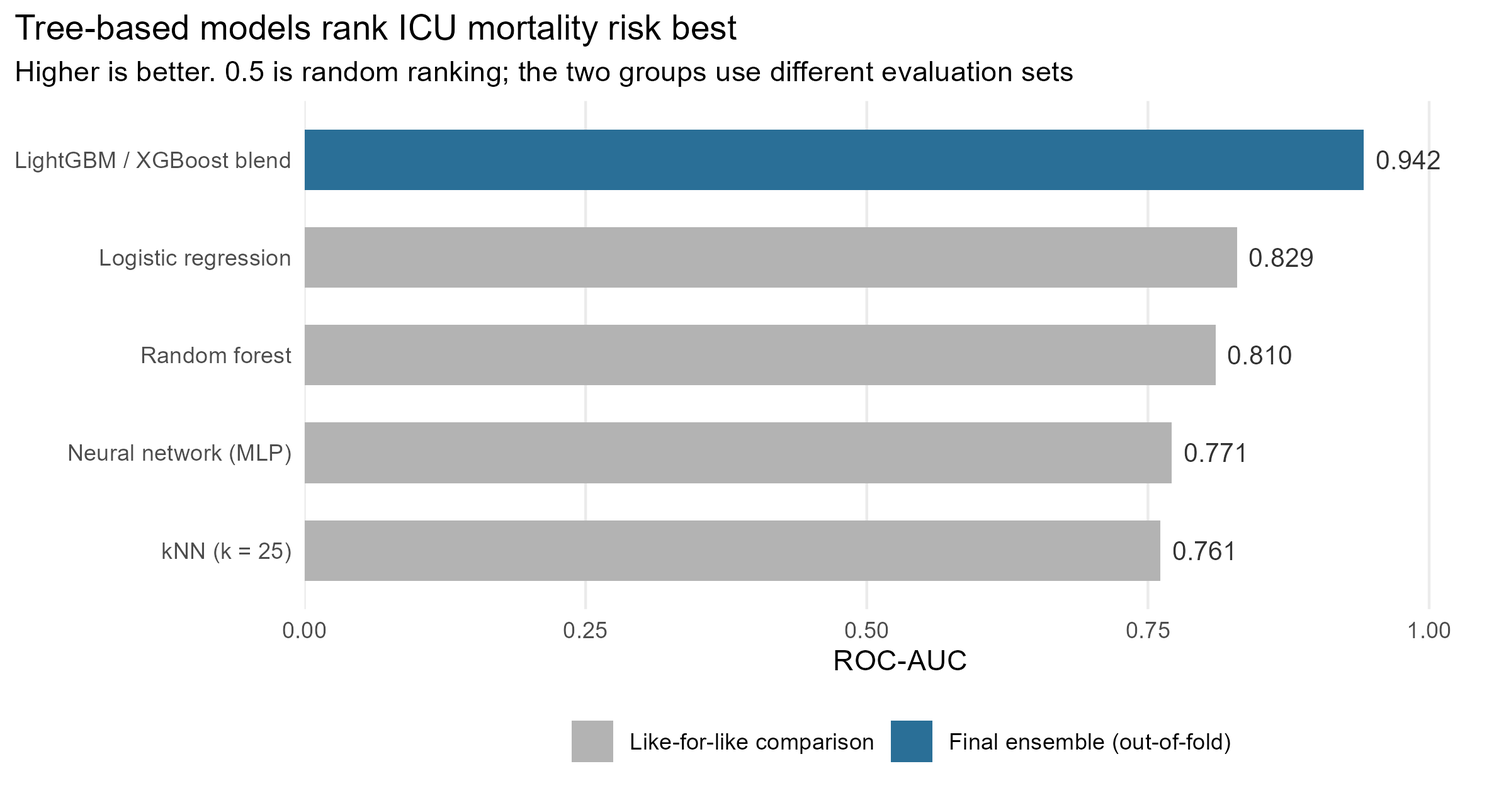
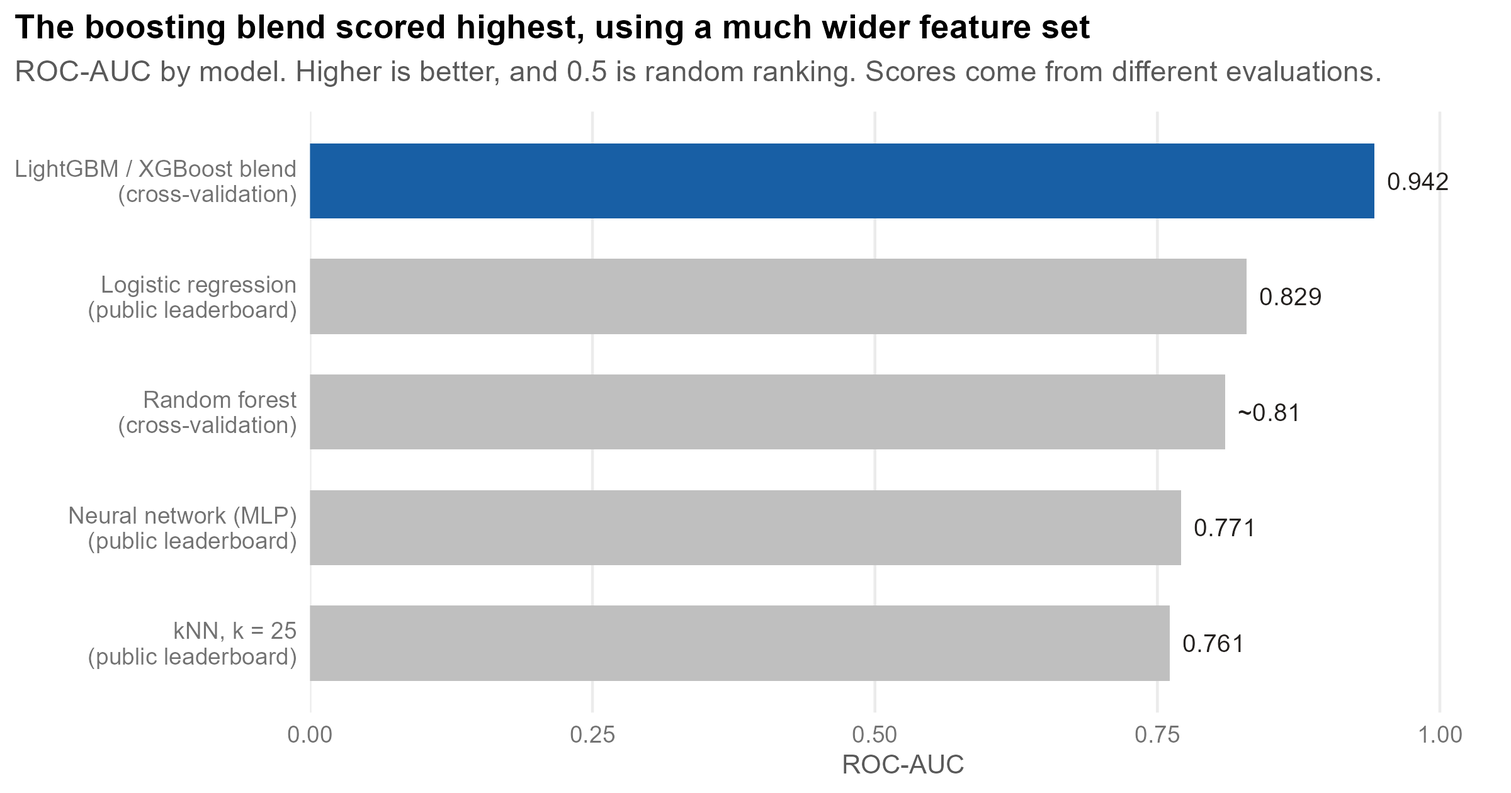
Built site for gh-pages

diff --git a/projects/icu-mortality-prediction.html b/projects/icu-mortality-prediction.html
@@ -7,7 +7,7 @@
 <meta name="viewport" content="width=device-width, initial-scale=1.0, user-scalable=yes">
 
 <meta name="dcterms.date" content="2026-05-24">
-<meta name="description" content="Five model families benchmarked against a gradient boosting ensemble on MIMIC-III ICU admissions, scored on a Kaggle leaderboard.">
+<meta name="description" content="Five model families benchmarked against a gradient boosting ensemble on MIMIC-III ICU admissions, built for a Kaggle competition.">
 
 <title>ICU Mortality Probability Prediction – Tristan Labagala</title>
 <style>
@@ -117,14 +117,14 @@ pre > code.sourceCode > span > a:first-child::before { text-decoration: underlin
 
 
 <meta property="og:title" content="ICU Mortality Probability Prediction – Tristan Labagala">
-<meta property="og:description" content="Five model families benchmarked against a gradient boosting ensemble on MIMIC-III ICU admissions, scored on a Kaggle leaderboard.">
+<meta property="og:description" content="Five model families benchmarked against a gradient boosting ensemble on MIMIC-III ICU admissions, built for a Kaggle competition.">
 <meta property="og:image" content="https://tlabagala.github.io/assets/figures/icu-model-comparison.png">
 <meta property="og:site_name" content="Tristan Labagala">
 <meta property="og:image:height" content="1260">
 <meta property="og:image:width" content="2400">
 <meta property="og:image:alt" content="Horizontal bar chart of ROC-AUC by model, with the boosting blend highest at 0.942.">
 <meta name="twitter:title" content="ICU Mortality Probability Prediction – Tristan Labagala">
-<meta name="twitter:description" content="Five model families benchmarked against a gradient boosting ensemble on MIMIC-III ICU admissions, scored on a Kaggle leaderboard.">
+<meta name="twitter:description" content="Five model families benchmarked against a gradient boosting ensemble on MIMIC-III ICU admissions, built for a Kaggle competition.">
 <meta name="twitter:image" content="https://tlabagala.github.io/assets/figures/icu-model-comparison.png">
 <meta name="twitter:image:alt" content="Horizontal bar chart of ROC-AUC by model, with the boosting blend highest at 0.942.">
 <meta name="twitter:card" content="summary_large_image">
@@ -201,7 +201,7 @@ pre > code.sourceCode > span > a:first-child::before { text-decoration: underlin
 
 <div>
   <div class="description">
-    Five model families benchmarked against a gradient boosting ensemble on MIMIC-III ICU admissions, scored on a Kaggle leaderboard.
+    Five model families benchmarked against a gradient boosting ensemble on MIMIC-III ICU admissions, built for a Kaggle competition.
   </div>
 </div>
 
@@ -276,12 +276,12 @@ pre > code.sourceCode > span > a:first-child::before { text-decoration: underlin
 <span id="cb2-6"><a href="#cb2-6" aria-hidden="true" tabindex="-1"></a>}</span></code></pre></div><button title="Copy to Clipboard" class="code-copy-button"><i class="bi"></i></button></div>
 </details>
 </div>
-<p><a href="https://github.com/tlabagala/your-repo">View the code on GitHub</a></p>
+<p><a href="https://github.com/tlabagala/icu-mortality-project">View the code on GitHub</a></p>
 </section>
 <section id="method-and-why-this-one" class="level2">
 <h2 class="anchored" data-anchor-id="method-and-why-this-one">Method, and why this one</h2>
-<p>The project ran in two passes. The first held preprocessing fixed - rare-level consolidation, one-hot encoding, then standardisation - and swapped only the model, so any difference in score came from the model family rather than the features. Five families were compared: logistic regression, kNN at k = 25, a random forest, a 16-unit single-layer MLP, and XGBoost.</p>
-<p>The second pass took the winning family and pushed it: richer diagnosis features, stratified cross-validation repeated over 3 seeds x 5 folds with early stopping, and a 70/30 blend of LightGBM and XGBoost. Repeating the folds matters at an 11% positive rate, where a single 5-fold split carries enough noise to move the estimated AUC on its own:</p>
+<p>The project ran in two passes. The first held preprocessing fixed - rare-level consolidation, one-hot encoding, then standardisation - and swapped only the model. Five families were fitted this way: logistic regression, kNN at k = 25, a random forest, a 16-unit single-layer MLP, and XGBoost.</p>
+<p>The second pass pushed gradient boosting further: richer diagnosis features, stratified cross-validation repeated over 3 seeds x 5 folds with early stopping, and a 70/30 blend of LightGBM and XGBoost. Repeating the folds matters at an 11% positive rate, where a single 5-fold split carries enough noise to move the estimated AUC on its own:</p>
 <div class="cell">
 <details class="code-fold">
 <summary>Code</summary>
@@ -319,12 +319,13 @@ pre > code.sourceCode > span > a:first-child::before { text-decoration: underlin
 <div class="quarto-figure quarto-figure-left page-columns page-full">
 <figure class="figure page-columns page-full">
 <p class="page-columns page-full"><img src="../assets/figures/icu-model-comparison.png" class="figure-wide img-fluid figure-img column-page"></p>
-<figcaption>Fig 1. Tree-based models rank ICU mortality risk substantially better than distance- or neuron-based ones; in the like-for-like comparison the linear model finishes second only to the forest.</figcaption>
+<figcaption>Fig 1. The boosting blend reached 0.942 out-of-fold and logistic regression (0.829) scored above the random forest (~0.81), but these scores come from different evaluations.</figcaption>
 </figure>
 </div>
 </div>
-<p>Within the controlled comparison the ordering was kNN 0.761, MLP 0.771, random forest ~0.81, logistic regression 0.829. Logistic regression finishing ahead of the neural network suggests mortality risk is broadly additive in these inputs, which is exactly the structure a linear model captures most efficiently. The kNN result is structural rather than a tuning failure: after one-hot encoding, distances concentrate, and a 25-patient neighbourhood contains under three deaths on average.</p>
-<p>The final blend reached 0.942 out-of-fold. That number is not comparable to the four above it - it comes from a different evaluation scheme on a feature set several hundred columns wider, so much of the gap is features rather than algorithm.</p>
+<p>On the public leaderboard, kNN scored 0.761, the MLP 0.771 and logistic regression 0.829. Logistic regression finishing ahead of the neural network suggests mortality risk is broadly additive in these inputs, which is exactly the structure a linear model captures most efficiently. The kNN result is structural rather than a tuning failure: after one-hot encoding, distances concentrate, and a 25-patient neighbourhood contains under three deaths on average.</p>
+<p>The random forest baseline reached ~0.81, but that figure was reported under cross-validation rather than the leaderboard, so its gap to logistic regression is not a clean ranking. The first-pass XGBoost has no reported score, so it is not shown.</p>
+<p>The final blend reached 0.942 out-of-fold. That number is not directly comparable to the leaderboard scores above - it comes from a different evaluation scheme on a feature set several hundred columns wider, so much of the gap is features rather than algorithm.</p>
 </section>
 <section id="what-this-means-in-practice" class="level2">
 <h2 class="anchored" data-anchor-id="what-this-means-in-practice">What this means in practice</h2>
@@ -873,7 +874,7 @@ pre > code.sourceCode > span > a:first-child::before { text-decoration: underlin
   </script><div class="modal fade" id="quarto-embedded-source-code-modal" tabindex="-1" aria-labelledby="quarto-embedded-source-code-modal-label" aria-hidden="true"><div class="modal-dialog modal-dialog-scrollable"><div class="modal-content"><div class="modal-header"><h5 class="modal-title" id="quarto-embedded-source-code-modal-label">Source Code</h5><button class="btn-close" data-bs-dismiss="modal"></button></div><div class="modal-body"><div class="">
 <div class="code-copy-outer-scaffold"><div class="sourceCode" id="cb4" data-shortcodes="false"><pre class="sourceCode markdown code-with-copy"><code class="sourceCode markdown"><span id="cb4-1"><a href="#cb4-1" aria-hidden="true" tabindex="-1"></a><span class="co">---</span></span>
 <span id="cb4-2"><a href="#cb4-2" aria-hidden="true" tabindex="-1"></a><span class="an">title:</span><span class="co"> "ICU Mortality Probability Prediction"</span></span>
-<span id="cb4-3"><a href="#cb4-3" aria-hidden="true" tabindex="-1"></a><span class="an">description:</span><span class="co"> "Five model families benchmarked against a gradient boosting ensemble on MIMIC-III ICU admissions, scored on a Kaggle leaderboard."</span></span>
+<span id="cb4-3"><a href="#cb4-3" aria-hidden="true" tabindex="-1"></a><span class="an">description:</span><span class="co"> "Five model families benchmarked against a gradient boosting ensemble on MIMIC-III ICU admissions, built for a Kaggle competition."</span></span>
 <span id="cb4-4"><a href="#cb4-4" aria-hidden="true" tabindex="-1"></a><span class="an">date:</span><span class="co"> 2026-05-24</span></span>
 <span id="cb4-5"><a href="#cb4-5" aria-hidden="true" tabindex="-1"></a><span class="an">categories:</span><span class="co"> [R, tidymodels, LightGBM, XGBoost]</span></span>
 <span id="cb4-6"><a href="#cb4-6" aria-hidden="true" tabindex="-1"></a><span class="an">image:</span><span class="co"> "../assets/figures/icu-model-comparison.png"</span></span>
@@ -963,114 +964,118 @@ pre > code.sourceCode > span > a:first-child::before { text-decoration: underlin
 <span id="cb4-94"><a href="#cb4-94" aria-hidden="true" tabindex="-1"></a>}</span>
 <span id="cb4-95"><a href="#cb4-95" aria-hidden="true" tabindex="-1"></a><span class="in">```</span></span>
 <span id="cb4-96"><a href="#cb4-96" aria-hidden="true" tabindex="-1"></a></span>
-<span id="cb4-97"><a href="#cb4-97" aria-hidden="true" tabindex="-1"></a><span class="co">[</span><span class="ot">View the code on GitHub</span><span class="co">](https://github.com/tlabagala/your-repo)</span></span>
+<span id="cb4-97"><a href="#cb4-97" aria-hidden="true" tabindex="-1"></a><span class="co">[</span><span class="ot">View the code on GitHub</span><span class="co">](https://github.com/tlabagala/icu-mortality-project)</span></span>
 <span id="cb4-98"><a href="#cb4-98" aria-hidden="true" tabindex="-1"></a></span>
 <span id="cb4-99"><a href="#cb4-99" aria-hidden="true" tabindex="-1"></a><span class="fu">## Method, and why this one</span></span>
 <span id="cb4-100"><a href="#cb4-100" aria-hidden="true" tabindex="-1"></a></span>
 <span id="cb4-101"><a href="#cb4-101" aria-hidden="true" tabindex="-1"></a>The project ran in two passes. The first held preprocessing fixed - rare-level</span>
-<span id="cb4-102"><a href="#cb4-102" aria-hidden="true" tabindex="-1"></a>consolidation, one-hot encoding, then standardisation - and swapped only the model,</span>
-<span id="cb4-103"><a href="#cb4-103" aria-hidden="true" tabindex="-1"></a>so any difference in score came from the model family rather than the features.</span>
-<span id="cb4-104"><a href="#cb4-104" aria-hidden="true" tabindex="-1"></a>Five families were compared: logistic regression, kNN at k = 25, a random forest, a</span>
-<span id="cb4-105"><a href="#cb4-105" aria-hidden="true" tabindex="-1"></a>16-unit single-layer MLP, and XGBoost.</span>
-<span id="cb4-106"><a href="#cb4-106" aria-hidden="true" tabindex="-1"></a></span>
-<span id="cb4-107"><a href="#cb4-107" aria-hidden="true" tabindex="-1"></a>The second pass took the winning family and pushed it: richer diagnosis features,</span>
-<span id="cb4-108"><a href="#cb4-108" aria-hidden="true" tabindex="-1"></a>stratified cross-validation repeated over 3 seeds x 5 folds with early stopping,</span>
-<span id="cb4-109"><a href="#cb4-109" aria-hidden="true" tabindex="-1"></a>and a 70/30 blend of LightGBM and XGBoost. Repeating the folds matters at an 11%</span>
-<span id="cb4-110"><a href="#cb4-110" aria-hidden="true" tabindex="-1"></a>positive rate, where a single 5-fold split carries enough noise to move the</span>
-<span id="cb4-111"><a href="#cb4-111" aria-hidden="true" tabindex="-1"></a>estimated AUC on its own:</span>
-<span id="cb4-112"><a href="#cb4-112" aria-hidden="true" tabindex="-1"></a></span>
-<span id="cb4-115"><a href="#cb4-115" aria-hidden="true" tabindex="-1"></a><span class="in">```{r}</span></span>
-<span id="cb4-116"><a href="#cb4-116" aria-hidden="true" tabindex="-1"></a><span class="co">#| label: lightgbm-cv</span></span>
-<span id="cb4-117"><a href="#cb4-117" aria-hidden="true" tabindex="-1"></a><span class="cf">for</span> (seed <span class="cf">in</span> <span class="fu">c</span>(<span class="dv">42</span>L, <span class="dv">123</span>L, <span class="dv">2024</span>L)) {</span>
-<span id="cb4-118"><a href="#cb4-118" aria-hidden="true" tabindex="-1"></a>  fold_idx <span class="ot">&lt;-</span> <span class="fu">make_folds</span>(y, N_SPLITS, seed)   <span class="co"># stratified on the outcome</span></span>
-<span id="cb4-119"><a href="#cb4-119" aria-hidden="true" tabindex="-1"></a>  seed_oof <span class="ot">&lt;-</span> <span class="fu">rep</span>(<span class="dv">0</span>, <span class="fu">length</span>(y))</span>
-<span id="cb4-120"><a href="#cb4-120" aria-hidden="true" tabindex="-1"></a></span>
-<span id="cb4-121"><a href="#cb4-121" aria-hidden="true" tabindex="-1"></a>  <span class="cf">for</span> (k <span class="cf">in</span> <span class="fu">seq_along</span>(fold_idx)) {</span>
-<span id="cb4-122"><a href="#cb4-122" aria-hidden="true" tabindex="-1"></a>    va <span class="ot">&lt;-</span> fold_idx[[k]]</span>
-<span id="cb4-123"><a href="#cb4-123" aria-hidden="true" tabindex="-1"></a>    tr <span class="ot">&lt;-</span> <span class="fu">setdiff</span>(<span class="fu">seq_along</span>(y), va)</span>
-<span id="cb4-124"><a href="#cb4-124" aria-hidden="true" tabindex="-1"></a></span>
-<span id="cb4-125"><a href="#cb4-125" aria-hidden="true" tabindex="-1"></a>    dtr <span class="ot">&lt;-</span> <span class="fu">lgb.Dataset</span>(X[tr, ], <span class="at">label =</span> y[tr], <span class="at">categorical_feature =</span> cat_cols)</span>
-<span id="cb4-126"><a href="#cb4-126" aria-hidden="true" tabindex="-1"></a>    dva <span class="ot">&lt;-</span> <span class="fu">lgb.Dataset</span>(X[va, ], <span class="at">label =</span> y[va], <span class="at">categorical_feature =</span> cat_cols,</span>
-<span id="cb4-127"><a href="#cb4-127" aria-hidden="true" tabindex="-1"></a>                       <span class="at">reference =</span> dtr)</span>
-<span id="cb4-128"><a href="#cb4-128" aria-hidden="true" tabindex="-1"></a></span>
-<span id="cb4-129"><a href="#cb4-129" aria-hidden="true" tabindex="-1"></a>    m <span class="ot">&lt;-</span> <span class="fu">lgb.train</span>(<span class="fu">c</span>(lgb_params, <span class="fu">list</span>(<span class="at">seed =</span> seed)), dtr, <span class="at">nrounds =</span> <span class="dv">4000</span>L,</span>
-<span id="cb4-130"><a href="#cb4-130" aria-hidden="true" tabindex="-1"></a>                   <span class="at">valids =</span> <span class="fu">list</span>(<span class="at">val =</span> dva), <span class="at">early_stopping_rounds =</span> <span class="dv">100</span>L)</span>
-<span id="cb4-131"><a href="#cb4-131" aria-hidden="true" tabindex="-1"></a></span>
-<span id="cb4-132"><a href="#cb4-132" aria-hidden="true" tabindex="-1"></a>    seed_oof[va] <span class="ot">&lt;-</span> <span class="fu">predict</span>(m, X[va, ])       <span class="co"># each row scored by a model</span></span>
-<span id="cb4-133"><a href="#cb4-133" aria-hidden="true" tabindex="-1"></a>    test_lgb     <span class="ot">&lt;-</span> test_lgb <span class="sc">+</span> <span class="fu">predict</span>(m, X_test)   <span class="co"># that never saw it</span></span>
-<span id="cb4-134"><a href="#cb4-134" aria-hidden="true" tabindex="-1"></a>  }</span>
-<span id="cb4-135"><a href="#cb4-135" aria-hidden="true" tabindex="-1"></a>  oof_lgb <span class="ot">&lt;-</span> oof_lgb <span class="sc">+</span> seed_oof</span>
-<span id="cb4-136"><a href="#cb4-136" aria-hidden="true" tabindex="-1"></a>}</span>
-<span id="cb4-137"><a href="#cb4-137" aria-hidden="true" tabindex="-1"></a><span class="in">```</span></span>
-<span id="cb4-138"><a href="#cb4-138" aria-hidden="true" tabindex="-1"></a></span>
-<span id="cb4-139"><a href="#cb4-139" aria-hidden="true" tabindex="-1"></a>The blend weight came from the centre of the flat region of the weight sweep</span>
-<span id="cb4-140"><a href="#cb4-140" aria-hidden="true" tabindex="-1"></a>rather than its peak, since picking the exact top of a noisy curve is a quiet form</span>
-<span id="cb4-141"><a href="#cb4-141" aria-hidden="true" tabindex="-1"></a>of overfitting the validation set.</span>
-<span id="cb4-142"><a href="#cb4-142" aria-hidden="true" tabindex="-1"></a></span>
-<span id="cb4-143"><a href="#cb4-143" aria-hidden="true" tabindex="-1"></a>Boosting rather than a linear model because clinical risk is threshold-like - an</span>
-<span id="cb4-144"><a href="#cb4-144" aria-hidden="true" tabindex="-1"></a>SpO2 below 88 is categorically bad - which trees represent natively. Two boosting</span>
-<span id="cb4-145"><a href="#cb4-145" aria-hidden="true" tabindex="-1"></a>libraries rather than one because LightGBM grows trees leaf-wise and XGBoost</span>
-<span id="cb4-146"><a href="#cb4-146" aria-hidden="true" tabindex="-1"></a>level-wise, so their errors are partly decorrelated and the average beats either</span>
-<span id="cb4-147"><a href="#cb4-147" aria-hidden="true" tabindex="-1"></a>alone.</span>
-<span id="cb4-148"><a href="#cb4-148" aria-hidden="true" tabindex="-1"></a></span>
-<span id="cb4-149"><a href="#cb4-149" aria-hidden="true" tabindex="-1"></a><span class="at">&gt; Logistic regression beat the neural network. On tabular data of this size, model</span></span>
-<span id="cb4-150"><a href="#cb4-150" aria-hidden="true" tabindex="-1"></a><span class="at">&gt; capacity is not free - the extra flexibility has to be paid for in data, and here</span></span>
-<span id="cb4-151"><a href="#cb4-151" aria-hidden="true" tabindex="-1"></a><span class="at">&gt; it could not be afforded.</span></span>
-<span id="cb4-152"><a href="#cb4-152" aria-hidden="true" tabindex="-1"></a></span>
-<span id="cb4-153"><a href="#cb4-153" aria-hidden="true" tabindex="-1"></a><span class="fu">## Findings</span></span>
-<span id="cb4-154"><a href="#cb4-154" aria-hidden="true" tabindex="-1"></a></span>
-<span id="cb4-155"><a href="#cb4-155" aria-hidden="true" tabindex="-1"></a>::: {.column-page}</span>
-<span id="cb4-156"><a href="#cb4-156" aria-hidden="true" tabindex="-1"></a><span class="al">![Fig 1. Tree-based models rank ICU mortality risk substantially better than distance- or neuron-based ones; in the like-for-like comparison the linear model finishes second only to the forest.](../assets/figures/icu-model-comparison.png)</span>{.figure-wide}</span>
-<span id="cb4-157"><a href="#cb4-157" aria-hidden="true" tabindex="-1"></a>:::</span>
-<span id="cb4-158"><a href="#cb4-158" aria-hidden="true" tabindex="-1"></a></span>
-<span id="cb4-159"><a href="#cb4-159" aria-hidden="true" tabindex="-1"></a>Within the controlled comparison the ordering was kNN 0.761, MLP 0.771, random</span>
-<span id="cb4-160"><a href="#cb4-160" aria-hidden="true" tabindex="-1"></a>forest ~0.81, logistic regression 0.829. Logistic regression finishing ahead of the</span>
-<span id="cb4-161"><a href="#cb4-161" aria-hidden="true" tabindex="-1"></a>neural network suggests mortality risk is broadly additive in these inputs, which</span>
-<span id="cb4-162"><a href="#cb4-162" aria-hidden="true" tabindex="-1"></a>is exactly the structure a linear model captures most efficiently. The kNN result</span>
-<span id="cb4-163"><a href="#cb4-163" aria-hidden="true" tabindex="-1"></a>is structural rather than a tuning failure: after one-hot encoding, distances</span>
-<span id="cb4-164"><a href="#cb4-164" aria-hidden="true" tabindex="-1"></a>concentrate, and a 25-patient neighbourhood contains under three deaths on average.</span>
-<span id="cb4-165"><a href="#cb4-165" aria-hidden="true" tabindex="-1"></a></span>
-<span id="cb4-166"><a href="#cb4-166" aria-hidden="true" tabindex="-1"></a>The final blend reached 0.942 out-of-fold. That number is not comparable to the</span>
-<span id="cb4-167"><a href="#cb4-167" aria-hidden="true" tabindex="-1"></a>four above it - it comes from a different evaluation scheme on a feature set</span>
-<span id="cb4-168"><a href="#cb4-168" aria-hidden="true" tabindex="-1"></a>several hundred columns wider, so much of the gap is features rather than</span>
-<span id="cb4-169"><a href="#cb4-169" aria-hidden="true" tabindex="-1"></a>algorithm.</span>
-<span id="cb4-170"><a href="#cb4-170" aria-hidden="true" tabindex="-1"></a></span>
-<span id="cb4-171"><a href="#cb4-171" aria-hidden="true" tabindex="-1"></a><span class="fu">## What this means in practice</span></span>
-<span id="cb4-172"><a href="#cb4-172" aria-hidden="true" tabindex="-1"></a></span>
-<span id="cb4-173"><a href="#cb4-173" aria-hidden="true" tabindex="-1"></a>A model like this would support clinical judgement, not replace it: a hospital</span>
-<span id="cb4-174"><a href="#cb4-174" aria-hidden="true" tabindex="-1"></a>could use it to order a review list so the highest-risk new admissions are seen</span>
-<span id="cb4-175"><a href="#cb4-175" aria-hidden="true" tabindex="-1"></a>first. Two things would have to change before that. The diagnosis codes would need</span>
-<span id="cb4-176"><a href="#cb4-176" aria-hidden="true" tabindex="-1"></a>replacing with information available at admission (see below), and the</span>
-<span id="cb4-177"><a href="#cb4-177" aria-hidden="true" tabindex="-1"></a>probabilities would need calibrating, because a ward planning staffing needs to</span>
-<span id="cb4-178"><a href="#cb4-178" aria-hidden="true" tabindex="-1"></a>know whether a score of 0.3 really means a 30% risk. The cost of errors is also</span>
-<span id="cb4-179"><a href="#cb4-179" aria-hidden="true" tabindex="-1"></a>lopsided - missing a patient who deteriorates is far worse than reviewing one who</span>
-<span id="cb4-180"><a href="#cb4-180" aria-hidden="true" tabindex="-1"></a>did not - so the alert threshold should be set on that trade-off, not on AUC.</span>
-<span id="cb4-181"><a href="#cb4-181" aria-hidden="true" tabindex="-1"></a></span>
-<span id="cb4-182"><a href="#cb4-182" aria-hidden="true" tabindex="-1"></a><span class="fu">## Assumptions and limitations</span></span>
-<span id="cb4-183"><a href="#cb4-183" aria-hidden="true" tabindex="-1"></a></span>
-<span id="cb4-184"><a href="#cb4-184" aria-hidden="true" tabindex="-1"></a>**Folds were stratified on the outcome, not grouped by patient.** Splitting happened</span>
-<span id="cb4-185"><a href="#cb4-185" aria-hidden="true" tabindex="-1"></a>at ICU-stay level. If a patient contributes more than one stay, their rows can land</span>
-<span id="cb4-186"><a href="#cb4-186" aria-hidden="true" tabindex="-1"></a>in different folds and the model can effectively memorise them, inflating the</span>
-<span id="cb4-187"><a href="#cb4-187" aria-hidden="true" tabindex="-1"></a>out-of-fold estimate. Patient-level splitting via <span class="in">`group_vfold_cv()`</span> is the fix. I</span>
-<span id="cb4-188"><a href="#cb4-188" aria-hidden="true" tabindex="-1"></a>have not quantified how much repeat admission exists in this extract, so I do not</span>
-<span id="cb4-189"><a href="#cb4-189" aria-hidden="true" tabindex="-1"></a>know the size of the effect.</span>
-<span id="cb4-190"><a href="#cb4-190" aria-hidden="true" tabindex="-1"></a></span>
-<span id="cb4-191"><a href="#cb4-191" aria-hidden="true" tabindex="-1"></a>**Diagnosis codes are not available at hour zero.** ICD-9 codes are assigned over</span>
-<span id="cb4-192"><a href="#cb4-192" aria-hidden="true" tabindex="-1"></a>the stay and finalised at discharge, so using them to predict that stay's outcome</span>
-<span id="cb4-193"><a href="#cb4-193" aria-hidden="true" tabindex="-1"></a>is defensible as a retrospective benchmark but would not transfer to real-time use.</span>
+<span id="cb4-102"><a href="#cb4-102" aria-hidden="true" tabindex="-1"></a>consolidation, one-hot encoding, then standardisation - and swapped only the model.</span>
+<span id="cb4-103"><a href="#cb4-103" aria-hidden="true" tabindex="-1"></a>Five families were fitted this way: logistic regression, kNN at k = 25, a random</span>
+<span id="cb4-104"><a href="#cb4-104" aria-hidden="true" tabindex="-1"></a>forest, a 16-unit single-layer MLP, and XGBoost.</span>
+<span id="cb4-105"><a href="#cb4-105" aria-hidden="true" tabindex="-1"></a></span>
+<span id="cb4-106"><a href="#cb4-106" aria-hidden="true" tabindex="-1"></a>The second pass pushed gradient boosting further: richer diagnosis features,</span>
+<span id="cb4-107"><a href="#cb4-107" aria-hidden="true" tabindex="-1"></a>stratified cross-validation repeated over 3 seeds x 5 folds with early stopping,</span>
+<span id="cb4-108"><a href="#cb4-108" aria-hidden="true" tabindex="-1"></a>and a 70/30 blend of LightGBM and XGBoost. Repeating the folds matters at an 11%</span>
+<span id="cb4-109"><a href="#cb4-109" aria-hidden="true" tabindex="-1"></a>positive rate, where a single 5-fold split carries enough noise to move the</span>
+<span id="cb4-110"><a href="#cb4-110" aria-hidden="true" tabindex="-1"></a>estimated AUC on its own:</span>
+<span id="cb4-111"><a href="#cb4-111" aria-hidden="true" tabindex="-1"></a></span>
+<span id="cb4-114"><a href="#cb4-114" aria-hidden="true" tabindex="-1"></a><span class="in">```{r}</span></span>
+<span id="cb4-115"><a href="#cb4-115" aria-hidden="true" tabindex="-1"></a><span class="co">#| label: lightgbm-cv</span></span>
+<span id="cb4-116"><a href="#cb4-116" aria-hidden="true" tabindex="-1"></a><span class="cf">for</span> (seed <span class="cf">in</span> <span class="fu">c</span>(<span class="dv">42</span>L, <span class="dv">123</span>L, <span class="dv">2024</span>L)) {</span>
+<span id="cb4-117"><a href="#cb4-117" aria-hidden="true" tabindex="-1"></a>  fold_idx <span class="ot">&lt;-</span> <span class="fu">make_folds</span>(y, N_SPLITS, seed)   <span class="co"># stratified on the outcome</span></span>
+<span id="cb4-118"><a href="#cb4-118" aria-hidden="true" tabindex="-1"></a>  seed_oof <span class="ot">&lt;-</span> <span class="fu">rep</span>(<span class="dv">0</span>, <span class="fu">length</span>(y))</span>
+<span id="cb4-119"><a href="#cb4-119" aria-hidden="true" tabindex="-1"></a></span>
+<span id="cb4-120"><a href="#cb4-120" aria-hidden="true" tabindex="-1"></a>  <span class="cf">for</span> (k <span class="cf">in</span> <span class="fu">seq_along</span>(fold_idx)) {</span>
+<span id="cb4-121"><a href="#cb4-121" aria-hidden="true" tabindex="-1"></a>    va <span class="ot">&lt;-</span> fold_idx[[k]]</span>
+<span id="cb4-122"><a href="#cb4-122" aria-hidden="true" tabindex="-1"></a>    tr <span class="ot">&lt;-</span> <span class="fu">setdiff</span>(<span class="fu">seq_along</span>(y), va)</span>
+<span id="cb4-123"><a href="#cb4-123" aria-hidden="true" tabindex="-1"></a></span>
+<span id="cb4-124"><a href="#cb4-124" aria-hidden="true" tabindex="-1"></a>    dtr <span class="ot">&lt;-</span> <span class="fu">lgb.Dataset</span>(X[tr, ], <span class="at">label =</span> y[tr], <span class="at">categorical_feature =</span> cat_cols)</span>
+<span id="cb4-125"><a href="#cb4-125" aria-hidden="true" tabindex="-1"></a>    dva <span class="ot">&lt;-</span> <span class="fu">lgb.Dataset</span>(X[va, ], <span class="at">label =</span> y[va], <span class="at">categorical_feature =</span> cat_cols,</span>
+<span id="cb4-126"><a href="#cb4-126" aria-hidden="true" tabindex="-1"></a>                       <span class="at">reference =</span> dtr)</span>
+<span id="cb4-127"><a href="#cb4-127" aria-hidden="true" tabindex="-1"></a></span>
+<span id="cb4-128"><a href="#cb4-128" aria-hidden="true" tabindex="-1"></a>    m <span class="ot">&lt;-</span> <span class="fu">lgb.train</span>(<span class="fu">c</span>(lgb_params, <span class="fu">list</span>(<span class="at">seed =</span> seed)), dtr, <span class="at">nrounds =</span> <span class="dv">4000</span>L,</span>
+<span id="cb4-129"><a href="#cb4-129" aria-hidden="true" tabindex="-1"></a>                   <span class="at">valids =</span> <span class="fu">list</span>(<span class="at">val =</span> dva), <span class="at">early_stopping_rounds =</span> <span class="dv">100</span>L)</span>
+<span id="cb4-130"><a href="#cb4-130" aria-hidden="true" tabindex="-1"></a></span>
+<span id="cb4-131"><a href="#cb4-131" aria-hidden="true" tabindex="-1"></a>    seed_oof[va] <span class="ot">&lt;-</span> <span class="fu">predict</span>(m, X[va, ])       <span class="co"># each row scored by a model</span></span>
+<span id="cb4-132"><a href="#cb4-132" aria-hidden="true" tabindex="-1"></a>    test_lgb     <span class="ot">&lt;-</span> test_lgb <span class="sc">+</span> <span class="fu">predict</span>(m, X_test)   <span class="co"># that never saw it</span></span>
+<span id="cb4-133"><a href="#cb4-133" aria-hidden="true" tabindex="-1"></a>  }</span>
+<span id="cb4-134"><a href="#cb4-134" aria-hidden="true" tabindex="-1"></a>  oof_lgb <span class="ot">&lt;-</span> oof_lgb <span class="sc">+</span> seed_oof</span>
+<span id="cb4-135"><a href="#cb4-135" aria-hidden="true" tabindex="-1"></a>}</span>
+<span id="cb4-136"><a href="#cb4-136" aria-hidden="true" tabindex="-1"></a><span class="in">```</span></span>
+<span id="cb4-137"><a href="#cb4-137" aria-hidden="true" tabindex="-1"></a></span>
+<span id="cb4-138"><a href="#cb4-138" aria-hidden="true" tabindex="-1"></a>The blend weight came from the centre of the flat region of the weight sweep</span>
+<span id="cb4-139"><a href="#cb4-139" aria-hidden="true" tabindex="-1"></a>rather than its peak, since picking the exact top of a noisy curve is a quiet form</span>
+<span id="cb4-140"><a href="#cb4-140" aria-hidden="true" tabindex="-1"></a>of overfitting the validation set.</span>
+<span id="cb4-141"><a href="#cb4-141" aria-hidden="true" tabindex="-1"></a></span>
+<span id="cb4-142"><a href="#cb4-142" aria-hidden="true" tabindex="-1"></a>Boosting rather than a linear model because clinical risk is threshold-like - an</span>
+<span id="cb4-143"><a href="#cb4-143" aria-hidden="true" tabindex="-1"></a>SpO2 below 88 is categorically bad - which trees represent natively. Two boosting</span>
+<span id="cb4-144"><a href="#cb4-144" aria-hidden="true" tabindex="-1"></a>libraries rather than one because LightGBM grows trees leaf-wise and XGBoost</span>
+<span id="cb4-145"><a href="#cb4-145" aria-hidden="true" tabindex="-1"></a>level-wise, so their errors are partly decorrelated and the average beats either</span>
+<span id="cb4-146"><a href="#cb4-146" aria-hidden="true" tabindex="-1"></a>alone.</span>
+<span id="cb4-147"><a href="#cb4-147" aria-hidden="true" tabindex="-1"></a></span>
+<span id="cb4-148"><a href="#cb4-148" aria-hidden="true" tabindex="-1"></a><span class="at">&gt; Logistic regression beat the neural network. On tabular data of this size, model</span></span>
+<span id="cb4-149"><a href="#cb4-149" aria-hidden="true" tabindex="-1"></a><span class="at">&gt; capacity is not free - the extra flexibility has to be paid for in data, and here</span></span>
+<span id="cb4-150"><a href="#cb4-150" aria-hidden="true" tabindex="-1"></a><span class="at">&gt; it could not be afforded.</span></span>
+<span id="cb4-151"><a href="#cb4-151" aria-hidden="true" tabindex="-1"></a></span>
+<span id="cb4-152"><a href="#cb4-152" aria-hidden="true" tabindex="-1"></a><span class="fu">## Findings</span></span>
+<span id="cb4-153"><a href="#cb4-153" aria-hidden="true" tabindex="-1"></a></span>
+<span id="cb4-154"><a href="#cb4-154" aria-hidden="true" tabindex="-1"></a>::: {.column-page}</span>
+<span id="cb4-155"><a href="#cb4-155" aria-hidden="true" tabindex="-1"></a><span class="al">![Fig 1. The boosting blend reached 0.942 out-of-fold and logistic regression (0.829) scored above the random forest (~0.81), but these scores come from different evaluations.](../assets/figures/icu-model-comparison.png)</span>{.figure-wide}</span>
+<span id="cb4-156"><a href="#cb4-156" aria-hidden="true" tabindex="-1"></a>:::</span>
+<span id="cb4-157"><a href="#cb4-157" aria-hidden="true" tabindex="-1"></a></span>
+<span id="cb4-158"><a href="#cb4-158" aria-hidden="true" tabindex="-1"></a>On the public leaderboard, kNN scored 0.761, the MLP 0.771 and logistic regression</span>
+<span id="cb4-159"><a href="#cb4-159" aria-hidden="true" tabindex="-1"></a>0.829. Logistic regression finishing ahead of the neural network suggests mortality</span>
+<span id="cb4-160"><a href="#cb4-160" aria-hidden="true" tabindex="-1"></a>risk is broadly additive in these inputs, which is exactly the structure a linear</span>
+<span id="cb4-161"><a href="#cb4-161" aria-hidden="true" tabindex="-1"></a>model captures most efficiently. The kNN result is structural rather than a tuning</span>
+<span id="cb4-162"><a href="#cb4-162" aria-hidden="true" tabindex="-1"></a>failure: after one-hot encoding, distances concentrate, and a 25-patient</span>
+<span id="cb4-163"><a href="#cb4-163" aria-hidden="true" tabindex="-1"></a>neighbourhood contains under three deaths on average.</span>
+<span id="cb4-164"><a href="#cb4-164" aria-hidden="true" tabindex="-1"></a></span>
+<span id="cb4-165"><a href="#cb4-165" aria-hidden="true" tabindex="-1"></a>The random forest baseline reached ~0.81, but that figure was reported under</span>
+<span id="cb4-166"><a href="#cb4-166" aria-hidden="true" tabindex="-1"></a>cross-validation rather than the leaderboard, so its gap to logistic regression is</span>
+<span id="cb4-167"><a href="#cb4-167" aria-hidden="true" tabindex="-1"></a>not a clean ranking. The first-pass XGBoost has no reported score, so it is not</span>
+<span id="cb4-168"><a href="#cb4-168" aria-hidden="true" tabindex="-1"></a>shown.</span>
+<span id="cb4-169"><a href="#cb4-169" aria-hidden="true" tabindex="-1"></a></span>
+<span id="cb4-170"><a href="#cb4-170" aria-hidden="true" tabindex="-1"></a>The final blend reached 0.942 out-of-fold. That number is not directly comparable to</span>
+<span id="cb4-171"><a href="#cb4-171" aria-hidden="true" tabindex="-1"></a>the leaderboard scores above - it comes from a different evaluation scheme on a</span>
+<span id="cb4-172"><a href="#cb4-172" aria-hidden="true" tabindex="-1"></a>feature set several hundred columns wider, so much of the gap is features rather</span>
+<span id="cb4-173"><a href="#cb4-173" aria-hidden="true" tabindex="-1"></a>than algorithm.</span>
+<span id="cb4-174"><a href="#cb4-174" aria-hidden="true" tabindex="-1"></a></span>
+<span id="cb4-175"><a href="#cb4-175" aria-hidden="true" tabindex="-1"></a><span class="fu">## What this means in practice</span></span>
+<span id="cb4-176"><a href="#cb4-176" aria-hidden="true" tabindex="-1"></a></span>
+<span id="cb4-177"><a href="#cb4-177" aria-hidden="true" tabindex="-1"></a>A model like this would support clinical judgement, not replace it: a hospital</span>
+<span id="cb4-178"><a href="#cb4-178" aria-hidden="true" tabindex="-1"></a>could use it to order a review list so the highest-risk new admissions are seen</span>
+<span id="cb4-179"><a href="#cb4-179" aria-hidden="true" tabindex="-1"></a>first. Two things would have to change before that. The diagnosis codes would need</span>
+<span id="cb4-180"><a href="#cb4-180" aria-hidden="true" tabindex="-1"></a>replacing with information available at admission (see below), and the</span>
+<span id="cb4-181"><a href="#cb4-181" aria-hidden="true" tabindex="-1"></a>probabilities would need calibrating, because a ward planning staffing needs to</span>
+<span id="cb4-182"><a href="#cb4-182" aria-hidden="true" tabindex="-1"></a>know whether a score of 0.3 really means a 30% risk. The cost of errors is also</span>
+<span id="cb4-183"><a href="#cb4-183" aria-hidden="true" tabindex="-1"></a>lopsided - missing a patient who deteriorates is far worse than reviewing one who</span>
+<span id="cb4-184"><a href="#cb4-184" aria-hidden="true" tabindex="-1"></a>did not - so the alert threshold should be set on that trade-off, not on AUC.</span>
+<span id="cb4-185"><a href="#cb4-185" aria-hidden="true" tabindex="-1"></a></span>
+<span id="cb4-186"><a href="#cb4-186" aria-hidden="true" tabindex="-1"></a><span class="fu">## Assumptions and limitations</span></span>
+<span id="cb4-187"><a href="#cb4-187" aria-hidden="true" tabindex="-1"></a></span>
+<span id="cb4-188"><a href="#cb4-188" aria-hidden="true" tabindex="-1"></a>**Folds were stratified on the outcome, not grouped by patient.** Splitting happened</span>
+<span id="cb4-189"><a href="#cb4-189" aria-hidden="true" tabindex="-1"></a>at ICU-stay level. If a patient contributes more than one stay, their rows can land</span>
+<span id="cb4-190"><a href="#cb4-190" aria-hidden="true" tabindex="-1"></a>in different folds and the model can effectively memorise them, inflating the</span>
+<span id="cb4-191"><a href="#cb4-191" aria-hidden="true" tabindex="-1"></a>out-of-fold estimate. Patient-level splitting via <span class="in">`group_vfold_cv()`</span> is the fix. I</span>
+<span id="cb4-192"><a href="#cb4-192" aria-hidden="true" tabindex="-1"></a>have not quantified how much repeat admission exists in this extract, so I do not</span>
+<span id="cb4-193"><a href="#cb4-193" aria-hidden="true" tabindex="-1"></a>know the size of the effect.</span>
 <span id="cb4-194"><a href="#cb4-194" aria-hidden="true" tabindex="-1"></a></span>
-<span id="cb4-195"><a href="#cb4-195" aria-hidden="true" tabindex="-1"></a>**Logistic regression assumes independent observations and linearity in the</span>
-<span id="cb4-196"><a href="#cb4-196" aria-hidden="true" tabindex="-1"></a>log-odds.** The first is questionable for the same repeat-admission reason; the</span>
-<span id="cb4-197"><a href="#cb4-197" aria-hidden="true" tabindex="-1"></a>second was not formally checked.</span>
+<span id="cb4-195"><a href="#cb4-195" aria-hidden="true" tabindex="-1"></a>**Diagnosis codes are not available at hour zero.** ICD-9 codes are assigned over</span>
+<span id="cb4-196"><a href="#cb4-196" aria-hidden="true" tabindex="-1"></a>the stay and finalised at discharge, so using them to predict that stay's outcome</span>
+<span id="cb4-197"><a href="#cb4-197" aria-hidden="true" tabindex="-1"></a>is defensible as a retrospective benchmark but would not transfer to real-time use.</span>
 <span id="cb4-198"><a href="#cb4-198" aria-hidden="true" tabindex="-1"></a></span>
-<span id="cb4-199"><a href="#cb4-199" aria-hidden="true" tabindex="-1"></a>**The probabilities are ranked, not calibrated.** Rebalancing the positive class</span>
-<span id="cb4-200"><a href="#cb4-200" aria-hidden="true" tabindex="-1"></a>distorts the output scale and averaging fifteen models compresses it toward the</span>
-<span id="cb4-201"><a href="#cb4-201" aria-hidden="true" tabindex="-1"></a>middle. PR-AUC was computed alongside ROC-AUC, which is the right instinct at an</span>
-<span id="cb4-202"><a href="#cb4-202" aria-hidden="true" tabindex="-1"></a>11% base rate, but no calibration plot was produced.</span>
-<span id="cb4-203"><a href="#cb4-203" aria-hidden="true" tabindex="-1"></a></span>
-<span id="cb4-204"><a href="#cb4-204" aria-hidden="true" tabindex="-1"></a>None of this licenses a claim that any feature causes mortality, or that acting on</span>
-<span id="cb4-205"><a href="#cb4-205" aria-hidden="true" tabindex="-1"></a>the model would change an outcome. It supports one claim only: the ranking is</span>
-<span id="cb4-206"><a href="#cb4-206" aria-hidden="true" tabindex="-1"></a>informative.</span>
+<span id="cb4-199"><a href="#cb4-199" aria-hidden="true" tabindex="-1"></a>**Logistic regression assumes independent observations and linearity in the</span>
+<span id="cb4-200"><a href="#cb4-200" aria-hidden="true" tabindex="-1"></a>log-odds.** The first is questionable for the same repeat-admission reason; the</span>
+<span id="cb4-201"><a href="#cb4-201" aria-hidden="true" tabindex="-1"></a>second was not formally checked.</span>
+<span id="cb4-202"><a href="#cb4-202" aria-hidden="true" tabindex="-1"></a></span>
+<span id="cb4-203"><a href="#cb4-203" aria-hidden="true" tabindex="-1"></a>**The probabilities are ranked, not calibrated.** Rebalancing the positive class</span>
+<span id="cb4-204"><a href="#cb4-204" aria-hidden="true" tabindex="-1"></a>distorts the output scale and averaging fifteen models compresses it toward the</span>
+<span id="cb4-205"><a href="#cb4-205" aria-hidden="true" tabindex="-1"></a>middle. PR-AUC was computed alongside ROC-AUC, which is the right instinct at an</span>
+<span id="cb4-206"><a href="#cb4-206" aria-hidden="true" tabindex="-1"></a>11% base rate, but no calibration plot was produced.</span>
+<span id="cb4-207"><a href="#cb4-207" aria-hidden="true" tabindex="-1"></a></span>
+<span id="cb4-208"><a href="#cb4-208" aria-hidden="true" tabindex="-1"></a>None of this licenses a claim that any feature causes mortality, or that acting on</span>
+<span id="cb4-209"><a href="#cb4-209" aria-hidden="true" tabindex="-1"></a>the model would change an outcome. It supports one claim only: the ranking is</span>
+<span id="cb4-210"><a href="#cb4-210" aria-hidden="true" tabindex="-1"></a>informative.</span>
 </code></pre></div><button title="Copy to Clipboard" class="code-copy-button" data-in-quarto-modal=""><i class="bi"></i></button></div>
 </div></div></div></div></div>
 </div> <!-- /content -->

diff --git a/index.html b/index.html
@@ -251,7 +251,7 @@ window.Quarto = {
 <p>This portfolio pulls together analytics and research work from university coursework, personal projects, and student club work. Every write-up follows the same structure - the question I was trying to answer, the data behind it, the method I chose and why it fit the problem (not just how it works), what I found, and the assumptions the analysis rests on. Full code for every project is linked on GitHub, so you can see exactly how each result was produced.</p>
 <div id="listing-work" class="quarto-listing quarto-listing-container-grid">
 <div class="list grid quarto-listing-cols-3">
[2 lines of base64/hex data omitted]
 <a href="./projects/nba-fantasy-draft.html" class="quarto-grid-link no-external-icon">
 <div class="quarto-grid-item card h-100 card-left">
 <p class="card-img-top">
@@ -287,7 +287,7 @@ Oct 16, 2026
 </div>
 </div></a>
 </div>
-<div class="g-col-1" data-index="1" data-categories="UiUyQ3RpZHltb2RlbHMlMkNMaWdodEdCTSUyQ1hHQm9vc3Q=" data-listing-date-sort="1779580800000" data-listing-file-modified-sort="1794009348767" data-listing-date-modified-sort="NaN" data-listing-reading-time-sort="7" data-listing-word-count-sort="1387">
+<div class="g-col-1" data-index="1" data-categories="UiUyQ3RpZHltb2RlbHMlMkNMaWdodEdCTSUyQ1hHQm9vc3Q=" data-listing-date-sort="1779580800000" data-listing-file-modified-sort="1794208730648" data-listing-date-modified-sort="NaN" data-listing-reading-time-sort="8" data-listing-word-count-sort="1404">
 <a href="./projects/icu-mortality-prediction.html" class="quarto-grid-link no-external-icon">
 <div class="quarto-grid-item card h-100 card-left">
 <p class="card-img-top">
@@ -309,7 +309,7 @@ ICU Mortality Probability Prediction
 
 </div>
 <div class="card-text listing-description">
-<p>Five model families benchmarked against a gradient boosting ensemble on MIMIC-III ICU admissions, scored on a Kaggle leaderboard.</p>
+<p>Five model families benchmarked against a gradient boosting ensemble on MIMIC-III ICU admissions, built for a Kaggle competition.</p>
 </div>
 <div class="card-attribution card-text-small end">
 <div class="listing-date">
@@ -319,7 +319,7 @@ May 24, 2026
 </div>
 </div></a>
 </div>
[2 lines of base64/hex data omitted]
 <a href="./projects/victorian-lga-crime.html" class="quarto-grid-link no-external-icon">
 <div class="quarto-grid-item card h-100 card-left">
 <p class="card-img-top">
@@ -353,7 +353,7 @@ May 1, 2026
 </div>
 </div></a>
 </div>
-<div class="g-col-1" data-index="3" data-categories="UiUyQ3RtJTJDaWdyYXBoJTJDdGV4dC1taW5pbmclMkNjbHVzdGVyaW5n" data-listing-date-sort="1748476800000" data-listing-file-modified-sort="1794009348767" data-listing-date-modified-sort="NaN" data-listing-reading-time-sort="7" data-listing-word-count-sort="1314">
+<div class="g-col-1" data-index="3" data-categories="UiUyQ3RtJTJDaWdyYXBoJTJDdGV4dC1taW5pbmclMkNjbHVzdGVyaW5n" data-listing-date-sort="1748476800000" data-listing-file-modified-sort="1794208730648" data-listing-date-modified-sort="NaN" data-listing-reading-time-sort="7" data-listing-word-count-sort="1314">
 <a href="./projects/text-mining-news-genres.html" class="quarto-grid-link no-external-icon">
 <div class="quarto-grid-item card h-100 card-left">
 <p class="card-img-top">
